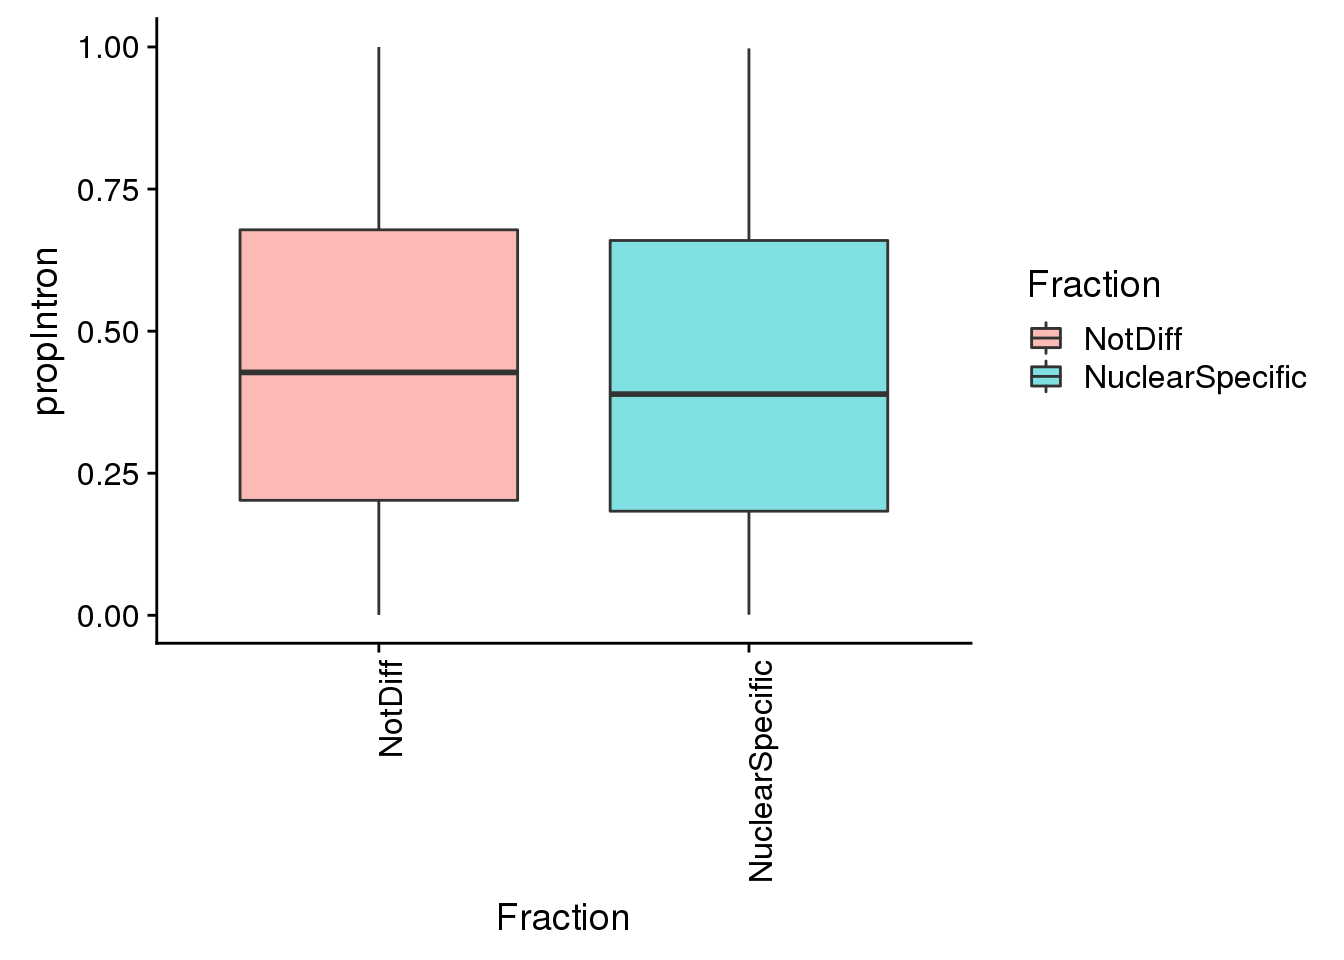
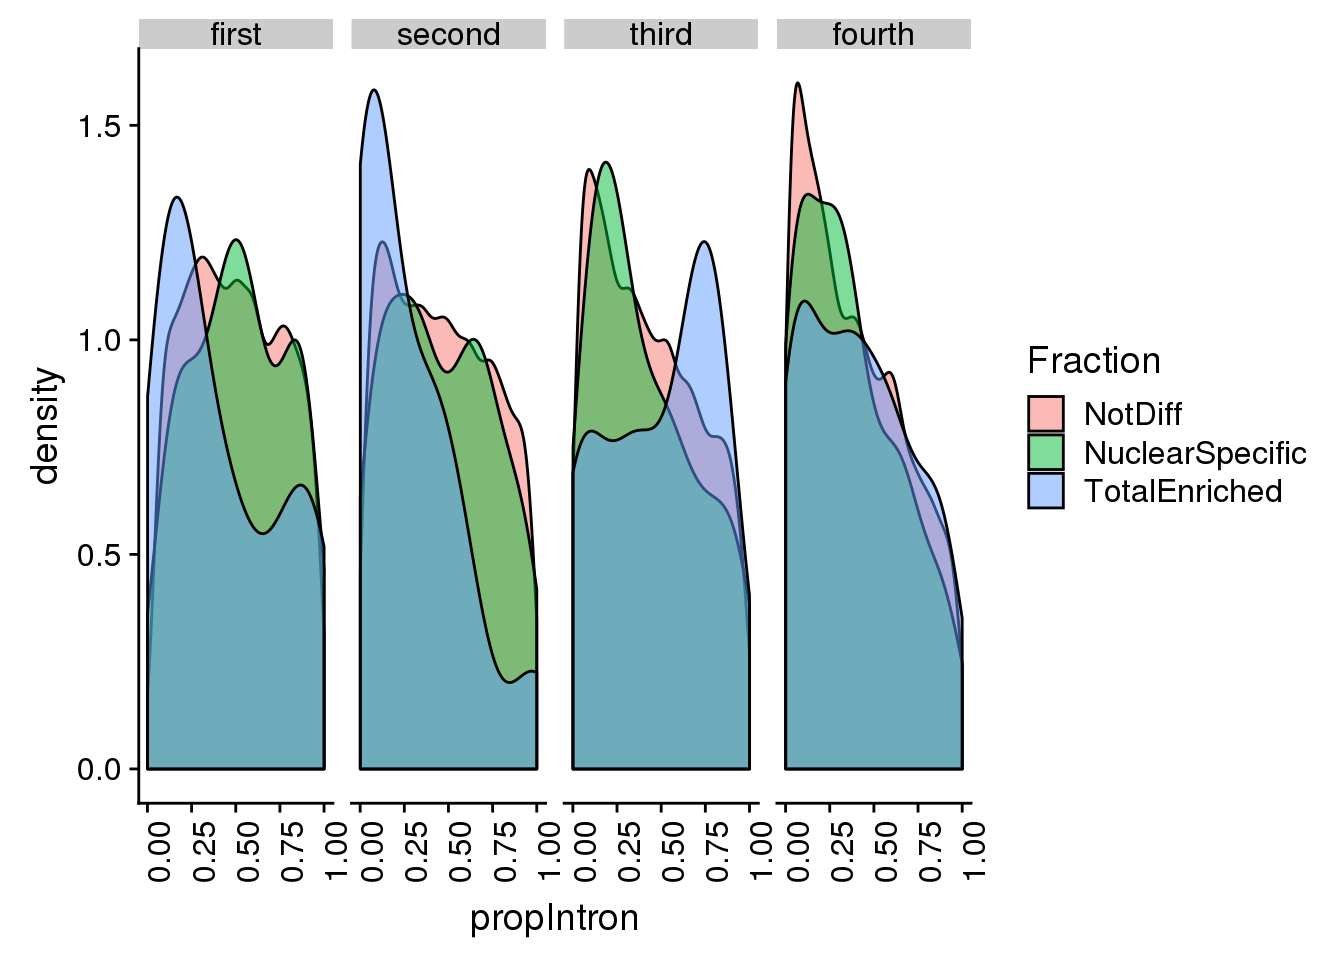
Build site.

diff --git a/docs/nucintronicanalysis.html b/docs/nucintronicanalysis.html
@@ -422,10 +422,10 @@ This reproducible <a href="http://rmarkdown.rstudio.com">R Markdown</a> analysis
 <div class="panel panel-default">
 <div class="panel-heading">
 <p class="panel-title">
-<a data-toggle="collapse" data-parent="#workflowr-checks" href="#strongRepositoryversionstrongahrefhttpsgithubcombrimittlemanapaQTLtreefc5727e38d6bb9317a92fa3f9ae8762090c19069targetblankfc5727ea"> <span class="glyphicon glyphicon-ok text-success" aria-hidden="true"></span> <strong>Repository version:</strong> <a href="https://github.com/brimittleman/apaQTL/tree/fc5727e38d6bb9317a92fa3f9ae8762090c19069" target="_blank">fc5727e</a> </a>
+<a data-toggle="collapse" data-parent="#workflowr-checks" href="#strongRepositoryversionstrongahrefhttpsgithubcombrimittlemanapaQTLtree2632f111d82c09c085ff251404e734f0bb862dbatargetblank2632f11a"> <span class="glyphicon glyphicon-ok text-success" aria-hidden="true"></span> <strong>Repository version:</strong> <a href="https://github.com/brimittleman/apaQTL/tree/2632f111d82c09c085ff251404e734f0bb862dba" target="_blank">2632f11</a> </a>
 </p>
 </div>
[2 lines of base64/hex data omitted]
 <div class="panel-body">
 <p>
 Great! You are using Git for version control. Tracking code development and connecting the code version to the results is critical for reproducibility. The version displayed above was the version of the Git repository at the time these results were generated. <br><br> Note that you need to be careful to ensure that all relevant files for the analysis have been committed to Git prior to generating the results (you can use <code>wflow_publish</code> or <code>wflow_git_commit</code>). workflowr only checks the R Markdown file, but you know if there are other scripts or data files that it depends on. Below is the status of the Git repository when the results were generated:
@@ -742,6 +742,40 @@ Message
 </tr>
 </thead>
 <tbody>
+<tr>
+<td>
+Rmd
+</td>
+<td>
+<a href="https://github.com/brimittleman/apaQTL/blob/2632f111d82c09c085ff251404e734f0bb862dba/analysis/nucintronicanalysis.Rmd" target="_blank">2632f11</a>
+</td>
+<td>
+brimittleman
+</td>
+<td>
+2019-05-23
+</td>
+<td>
+add tot enriched
+</td>
+</tr>
+<tr>
+<td>
+html
+</td>
+<td>
+<a href="https://rawcdn.githack.com/brimittleman/apaQTL/b454fc6e4926213fe62688447a066aa5990c4dee/docs/nucintronicanalysis.html" target="_blank">b454fc6</a>
+</td>
+<td>
+brimittleman
+</td>
+<td>
+2019-05-23
+</td>
+<td>
+Build site.
+</td>
+</tr>
 <tr>
 <td>
 Rmd
@@ -1472,7 +1506,7 @@ brimittleman
 </table>
 </div>
 </div>
-<pre class="r"><code>pas2intronNuc_cat=pas2intronNuc %&gt;% mutate(Fraction=ifelse(deltaPAU &lt;= -0.2, &quot;NuclearSpecific&quot;, &quot;NotDiff&quot;)) %&gt;% mutate(LengthCat=ifelse(intronLength&lt;=3929, &quot;first&quot;, ifelse(intronLength&gt;3929 &amp;intronLength&lt;=9220, &quot;second&quot;, ifelse(intronLength&gt;9220 &amp;intronLength&lt;=24094, &quot;third&quot;, &quot;fourth&quot;))))
+<pre class="r"><code>pas2intronNuc_cat=pas2intronNuc %&gt;% mutate(Fraction=ifelse(deltaPAU &lt;= -0.2, &quot;NuclearSpecific&quot;, ifelse(deltaPAU&gt;-.2 &amp;deltaPAU &lt; .2, &quot;NotDiff&quot;, &quot;TotalEnriched&quot;))) %&gt;% mutate(LengthCat=ifelse(intronLength&lt;=3929, &quot;first&quot;, ifelse(intronLength&gt;3929 &amp;intronLength&lt;=9220, &quot;second&quot;, ifelse(intronLength&gt;9220 &amp;intronLength&lt;=24094, &quot;third&quot;, &quot;fourth&quot;))))
 
 pas2intronNuc_cat$LengthCat &lt;- factor(pas2intronNuc_cat$LengthCat, levels=c(&quot;first&quot;, &quot;second&quot;, &quot;third&quot;, &quot;fourth&quot;))</code></pre>
 <p>Plot this:</p>
@@ -1502,6 +1536,17 @@ Date
 <tbody>
 <tr>
 <td>
+<a href="https://github.com/brimittleman/apaQTL/blob/b454fc6e4926213fe62688447a066aa5990c4dee/docs/figure/nucintronicanalysis.Rmd/unnamed-chunk-26-1.png" target="_blank">b454fc6</a>
+</td>
+<td>
+brimittleman
+</td>
+<td>
+2019-05-23
+</td>
+</tr>
+<tr>
+<td>
 <a href="https://github.com/brimittleman/apaQTL/blob/ab2692689afb940c49ce91e6d28d41719d30075d/docs/figure/nucintronicanalysis.Rmd/unnamed-chunk-26-1.png" target="_blank">ab26926</a>
 </td>
 <td>
@@ -1515,8 +1560,60 @@ brimittleman
 </table>
 </div>
 </div>
-<pre class="r"><code>ggplot(pas2intronNuc_cat, aes(y=propIntron, x=Fraction, fill=Fraction)) + geom_boxplot(alpha=.5)  + theme(axis.text.x = element_text(angle = 90, hjust = 1)) </code></pre>
+<pre class="r"><code>ggplot(pas2intronNuc_cat, aes(x=propIntron, by=Fraction, fill=Fraction)) + geom_density(alpha=.5) + facet_grid(~LengthCat)  + theme(axis.text.x = element_text(angle = 90, hjust = 1))</code></pre>
 <p><img src="figure/nucintronicanalysis.Rmd/unnamed-chunk-27-1.png" width="672" style="display: block; margin: auto;" /></p>
+<p>
+<button type="button" class="btn btn-default btn-xs btn-workflowr btn-workflowr-fig" data-toggle="collapse" data-target="#fig-unnamed-chunk-27-1">
+Past versions of unnamed-chunk-27-1.png
+</button>
+</p>
+<div id="fig-unnamed-chunk-27-1" class="collapse">
+<div class="table-responsive">
+<table class="table table-condensed table-hover">
+<thead>
+<tr>
+<th>
+Version
+</th>
+<th>
+Author
+</th>
+<th>
+Date
+</th>
+</tr>
+</thead>
+<tbody>
+<tr>
+<td>
+<a href="https://github.com/brimittleman/apaQTL/blob/b454fc6e4926213fe62688447a066aa5990c4dee/docs/figure/nucintronicanalysis.Rmd/unnamed-chunk-27-1.png" target="_blank">b454fc6</a>
+</td>
+<td>
+brimittleman
+</td>
+<td>
+2019-05-23
+</td>
+</tr>
+</tbody>
+</table>
+</div>
+</div>
+<pre class="r"><code>ggplot(pas2intronNuc_cat, aes(y=propIntron, x=Fraction, fill=Fraction)) + geom_boxplot(alpha=.5)  + theme(axis.text.x = element_text(angle = 90, hjust = 1)) </code></pre>
+<p><img src="figure/nucintronicanalysis.Rmd/unnamed-chunk-28-1.png" width="672" style="display: block; margin: auto;" /></p>
+<pre class="r"><code>pas2intronTotal=read.table(&quot;../data/intron_analysis/TotalIntronPeaksontoIntrons.bed&quot;,col.names = c(&quot;intronCHR&quot;, &quot;intronStart&quot;, &quot;intronEnd&quot;, &quot;gene&quot;, &quot;score&quot;, &quot;strand&quot;, &quot;peakCHR&quot;, &quot;peakStart&quot;, &quot;peakEnd&quot;, &quot;PeakID&quot;, &quot;meanUsage&quot;, &quot;peakStrand&quot;)) %&gt;% mutate(PAS=paste(peakCHR, peakStart, peakEnd, gene, sep=&quot;:&quot;)) %&gt;% inner_join(effectsize, by=&quot;PAS&quot;) %&gt;% mutate(PASloc=ifelse(strand==&quot;+&quot;, peakEnd, peakStart)) %&gt;% dplyr::select(intronStart, intronEnd, gene, strand, PeakID, PASloc ,meanUsage, deltaPAU) %&gt;% mutate(intronLength=intronEnd-intronStart , distance2PAS= ifelse(strand==&quot;+&quot;, PASloc-intronStart, intronEnd-PASloc), propIntron=distance2PAS/intronLength)
+
+pas2intronTotal$deltaPAU= as.numeric(pas2intronTotal$deltaPAU)
+
+
+pas2intronTotal_cat=pas2intronTotal %&gt;% mutate(Fraction=ifelse(deltaPAU &lt;= -0.2, &quot;NuclearSpecific&quot;, ifelse(deltaPAU&gt;-.2 &amp;deltaPAU &lt; .2, &quot;NotDiff&quot;, &quot;TotalEnriched&quot;))) %&gt;% mutate(LengthCat=ifelse(intronLength&lt;=3785, &quot;first&quot;, ifelse(intronLength&gt;3785 &amp;intronLength&lt;=8872, &quot;second&quot;, ifelse(intronLength&gt;8872 &amp;intronLength&lt;=22928, &quot;third&quot;, &quot;fourth&quot;))))
+
+
+
+pas2intronTotal_cat$LengthCat &lt;- factor(pas2intronTotal_cat$LengthCat, levels=c(&quot;first&quot;, &quot;second&quot;, &quot;third&quot;, &quot;fourth&quot;))
+
+ggplot(pas2intronTotal_cat, aes(y=propIntron, x=Fraction, fill=Fraction)) + geom_boxplot(alpha=.5) + facet_grid(~LengthCat)  + theme(axis.text.x = element_text(angle = 90, hjust = 1)) </code></pre>
+<p><img src="figure/nucintronicanalysis.Rmd/unnamed-chunk-29-1.png" width="672" style="display: block; margin: auto;" /></p>
 <br>
 <p>
 <button type="button" class="btn btn-default btn-workflowr btn-workflowr-sessioninfo" data-toggle="collapse" data-target="#workflowr-sessioninfo" style="display: block;">
